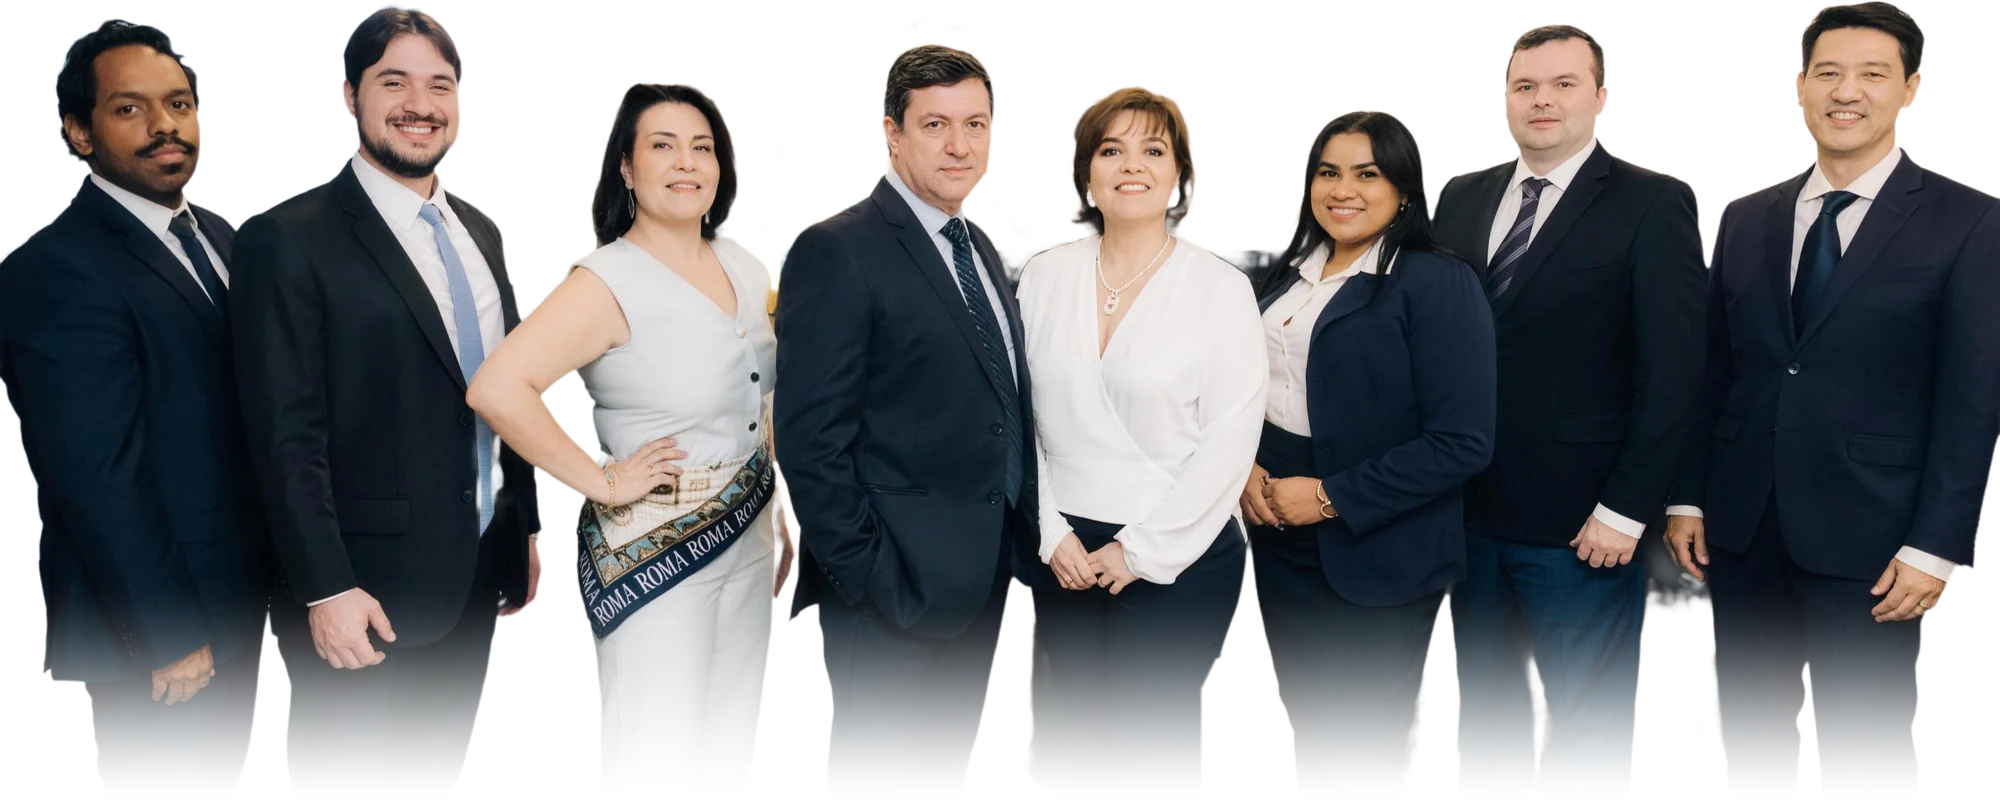
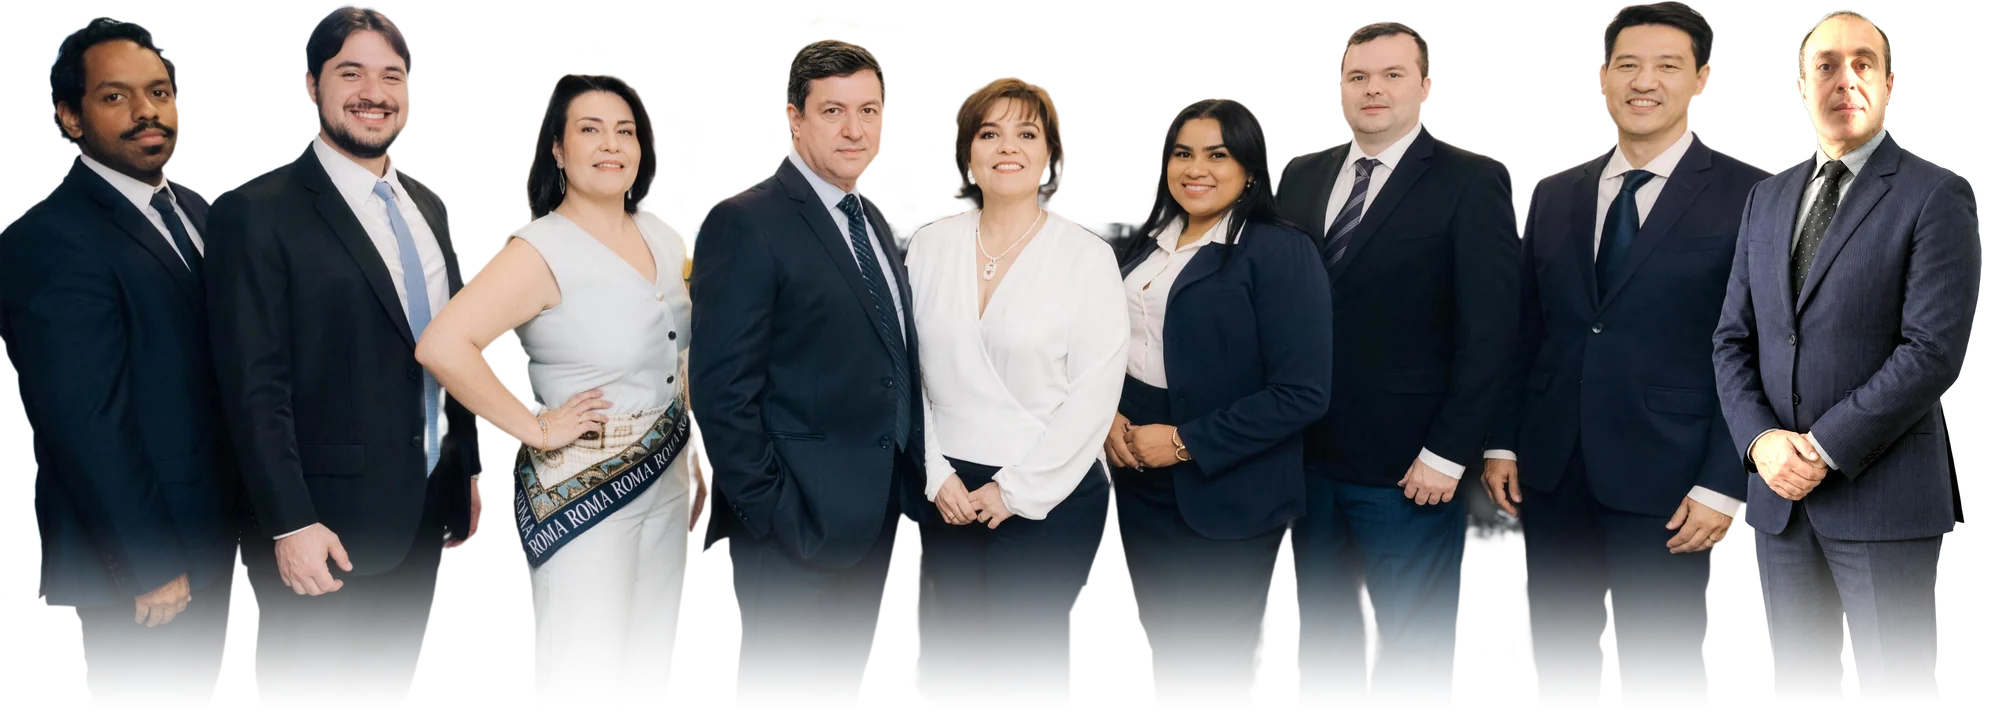
Login: nono advogado na foto da equipe, no canto direito
Pedido do Lucas. A partir de uma selfie: o corpo virado para o centro
(espelhando o primeiro da esquerda) e as pernas ate o joelho foram
gerados no Higgsfield, e o rosto e o da foto real dele, encaixado por
cima com a mesma escala, inclinacao e cor. Ele fica um pouco na frente do
ultimo, cobrindo o braco que a foto original cortava, e some no mesmo
degrade dos outros.

diff --git a/src/pages/Login.tsx b/src/pages/Login.tsx
@@ -50,7 +50,10 @@ export default function Login({ onEntrar }: { onEntrar: (s: Sessao) => void }) {
             tira o fundo, nao redesenha ninguem: rosto de gente de verdade nao
             pode sair alterado). Some em degrade na altura das coxas porque na
             foto os dois da direita estao atras de uma mesa, com perna e sapato
-            cortados retos. Ocupa a metade de baixo, o titulo fica em cima. */}
+            cortados retos. Ocupa a metade de baixo, o titulo fica em cima.
+            O nono, no canto direito, entrou depois (20/10/2026) a partir de
+            uma selfie: corpo virado para o centro gerado no Higgsfield e o
+            ROSTO DA FOTO REAL dele encaixado por cima. */}
         <img
           src={EQUIPE[VISUAL_DA_EQUIPE].src}
           alt=""
